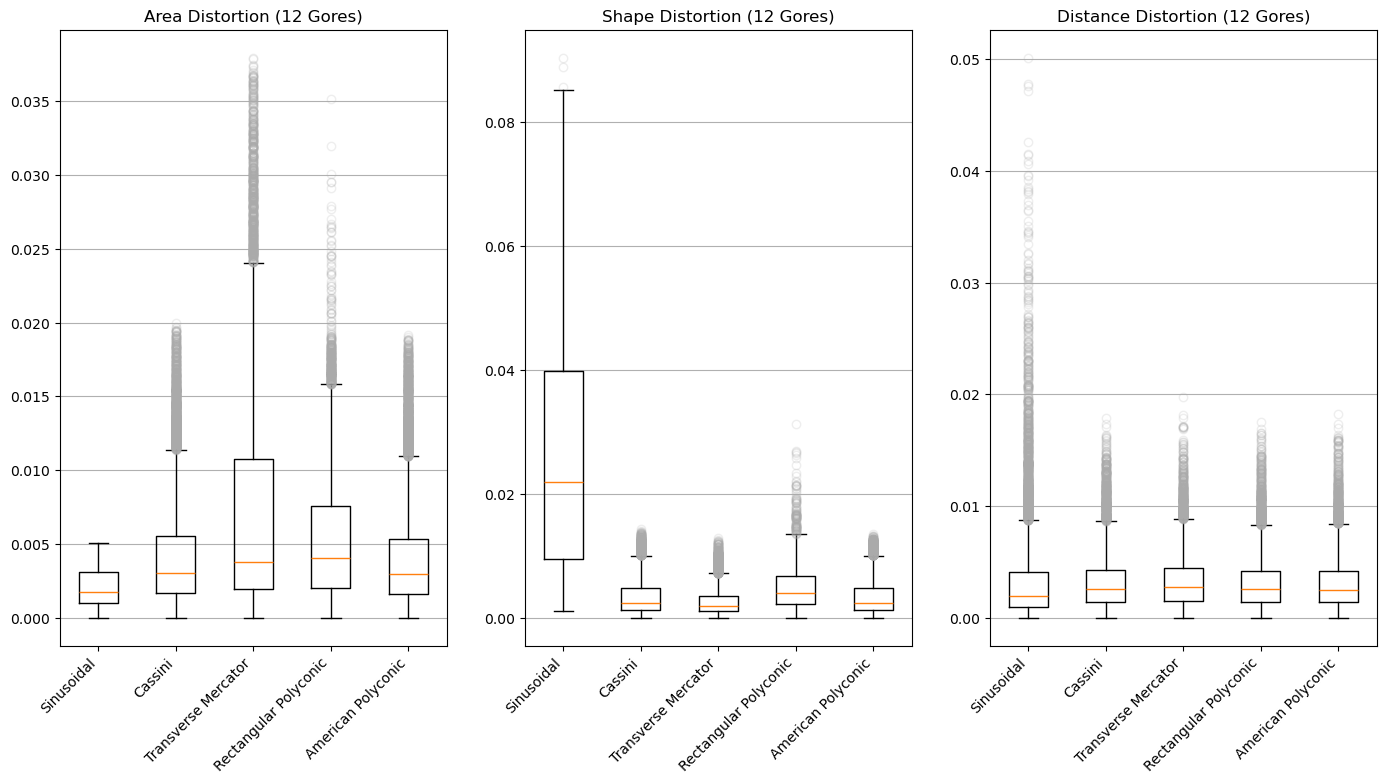
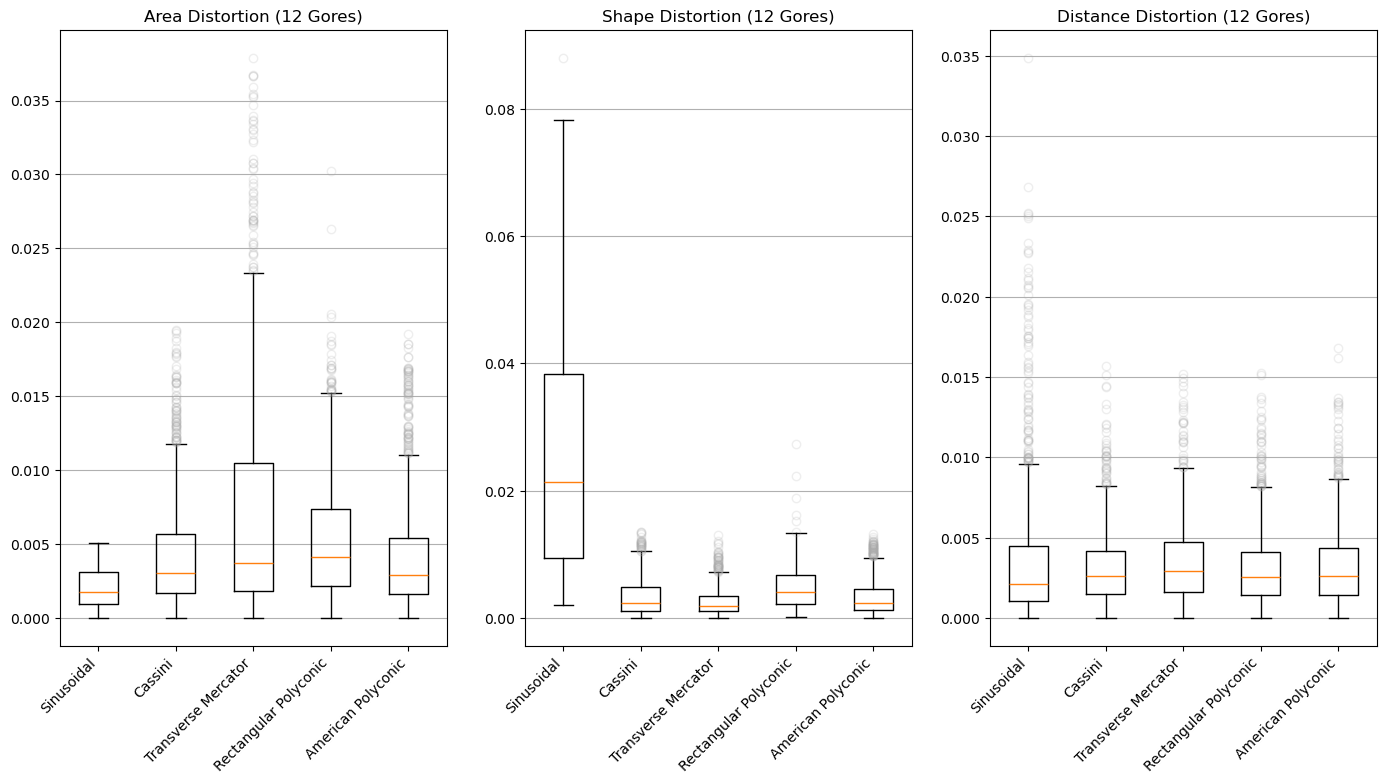
remove scale factor and add overall distortion figure

diff --git a/globe.py b/globe.py
@@ -25,10 +25,15 @@ crss = {
 # open landmass data
 land = read_file("./data/ne_110m_land.shp")
 
-# construct a single gore of the specifided width at the Greenwich meridian
-best_per_gore = []
-for n_gores in [4, 6, 12, 24, 48]:
-# for n_gores in [12]:
+# construct results dictionary
+overall_distortion = dict()
+for c in crss.keys():
+    overall_distortion[c] = []
+
+# evaluate all desired gore numbers
+for n_gores in [4, 6, 12, 24, 36, 48]:
+
+    # construct a single gore of the specifided width at the Greenwich meridian
     gore_width = 360 / n_gores
     half_width = gore_width / 2
     gore = GeoSeries(Polygon([(-half_width, 90), (-half_width, -90), (half_width, -90), (half_width, 90)]), crs="EPSG:4326")
@@ -63,7 +68,7 @@ for n_gores in [4, 6, 12, 24, 48]:
         }
 
         # calculate distortion for current projection
-        Ep, Es, Ea, Ka, p, s, a = evaluate_distortion(g, transformer, minx, miny+10, maxx, maxy-10, minr=10000, 
+        Ep, Es, Ea, p, s, a = evaluate_distortion(g, transformer, minx, miny+10, maxx, maxy-10, minr=10000, 
                                                       maxr=1000000, sample_number=10000, return_distributions=True)
 
         # load into distributions
@@ -103,6 +108,10 @@ for n_gores in [4, 6, 12, 24, 48]:
     # calculate 'overall' distortion metric
     results['Total'] = (results['Distance'] + results['Shape'] + results['Area']) / 3
     
+    # load into dictionary
+    for id, row in results.iterrows():
+        overall_distortion[row['Name']].append(row.loc['Total'])
+    
     # reporting...
     # print(f"Best for Distance: {results[results.Distance == results.Distance.min()]['Name'].iloc[0]}")
     # print(f"\t{results.sort_values('Distance')['Name'].to_list()}\n")
@@ -113,13 +122,13 @@ for n_gores in [4, 6, 12, 24, 48]:
     # print(f"Best for Fit: {results[results.Width == results.Width.min()]['Name'].iloc[0]}")
     # print(f"\t{results.sort_values('Width')['Name'].to_list()}\n")
     print(f"Best overall for {n_gores} Gores: {results[results.Total == results.Total.min()]['Name'].iloc[0]}")
-    print(f"\t{results.sort_values('Total')[['Name', 'Total', 'Area', 'Shape', 'Distance']]}\n")
+    # print(f"\t{results.sort_values('Total')[['Name', 'Total', 'Area', 'Shape', 'Distance']]}\n")
+    print(f"\t{results[['Name', 'Total']]}\n")
 
 
     # plot distributions for distortion
     _, axs = plt.subplots(figsize=(17, 8), nrows=1, ncols=3)
     for ax, type in zip(axs, ["Area", "Shape", "Distance"]):
-        # plt.ylabel(f"{type} Distortion")
         ax.set_title(f"{type} Distortion ({n_gores} Gores)")
         ax.boxplot(
             x=[distributions[n][type] for n in distributions.keys()], 
@@ -134,7 +143,6 @@ for n_gores in [4, 6, 12, 24, 48]:
     # plot lines for gore width error
     _, ax = plt.subplots(figsize=(5, 8), nrows=1, ncols=1)
     plt.axvline(x=0, color='black', lw=0.8)
-    # ax.set_title(f"Gore 'Fit' error for a globe of 300 mm diameter")
     for name, data in width_plot.items():
         ax.plot(data['x'], data['y'], label=name)
     ax.xaxis.grid(True)
@@ -144,3 +152,16 @@ for n_gores in [4, 6, 12, 24, 48]:
     ax.yaxis.set_ticks(arange(0, 90, 10))
     plt.legend(loc="upper right")
     plt.savefig(f"./out/{n_gores}_gore_width.png", bbox_inches='tight')
+    plt.close('all')
+
+# plot overall distortion
+_, ax = plt.subplots(figsize=(8, 5), nrows=1, ncols=1)
+for name, values in overall_distortion.items():
+    ax.plot([4, 6, 12, 24, 36, 48], values, label=name, alpha=0.75, lw=1.25)
+ax.xaxis.grid(True)
+ax.yaxis.grid(True)
+ax.xaxis.set_ticks([0, 4, 6, 12, 24, 36, 48])
+plt.xlabel(f"Number of gores")
+plt.ylabel(f"Overall Distortion")
+plt.legend(loc="upper right")
+plt.savefig(f"./out/overall_distortion.png", bbox_inches='tight')

diff --git a/distortion.py b/distortion.py
@@ -117,7 +117,8 @@ def evaluate_distortion(g, transformer, minx, miny, maxx, maxy, minr, maxr, samp
     diff_sum = 0
     for e, p in zip(ellipsoidal_areas, planar_areas):
         area_indices.append(abs(e - p) / abs(e + p))
-        diff_sum += scale_factor(abs(e - p) / abs(e + p))
+        # diff_sum += scale_factor(abs(e - p) / abs(e + p))
+        diff_sum += abs(e - p) / abs(e + p)
     Ea = 1 / sample_number * diff_sum
 
 
